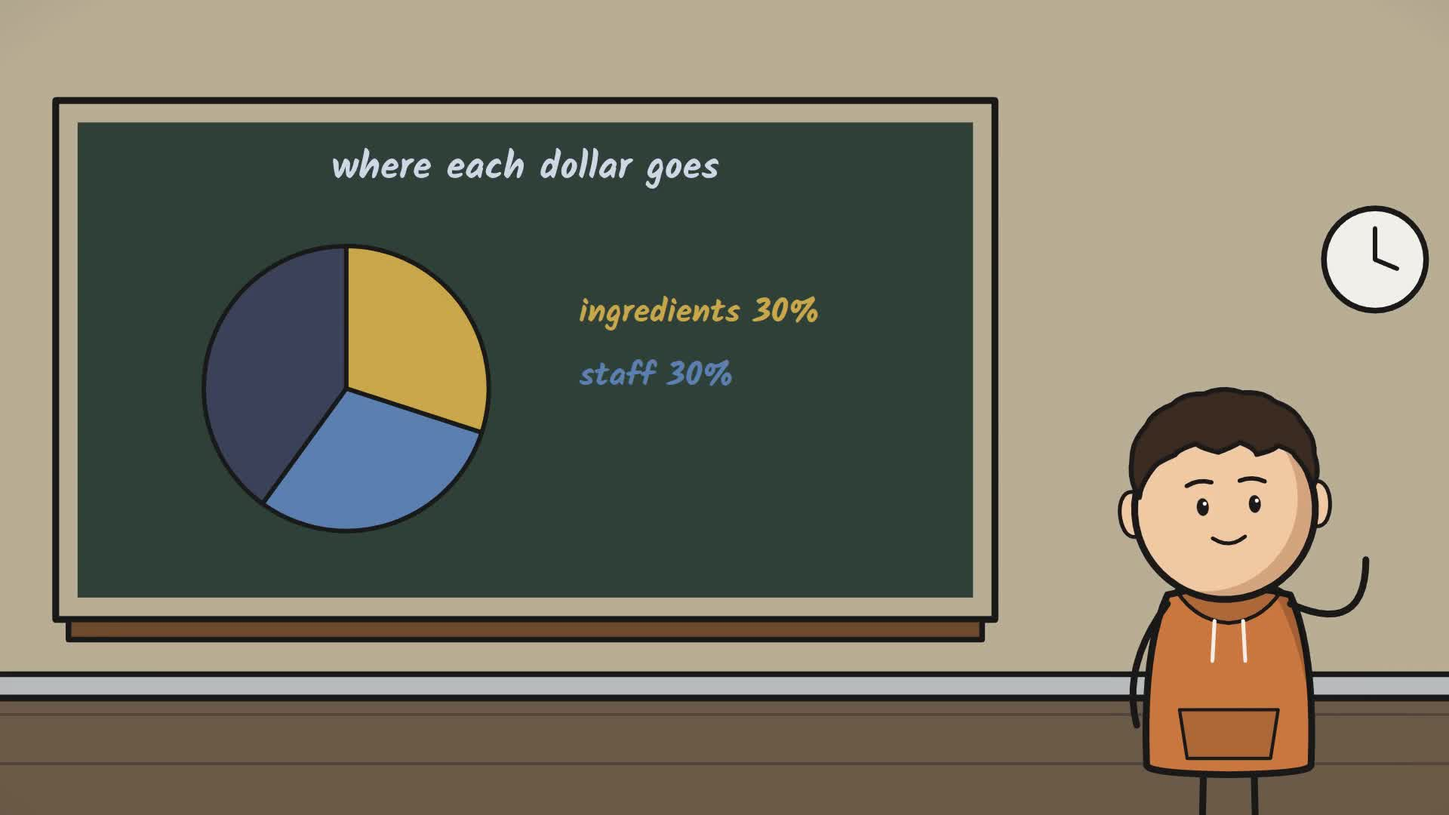
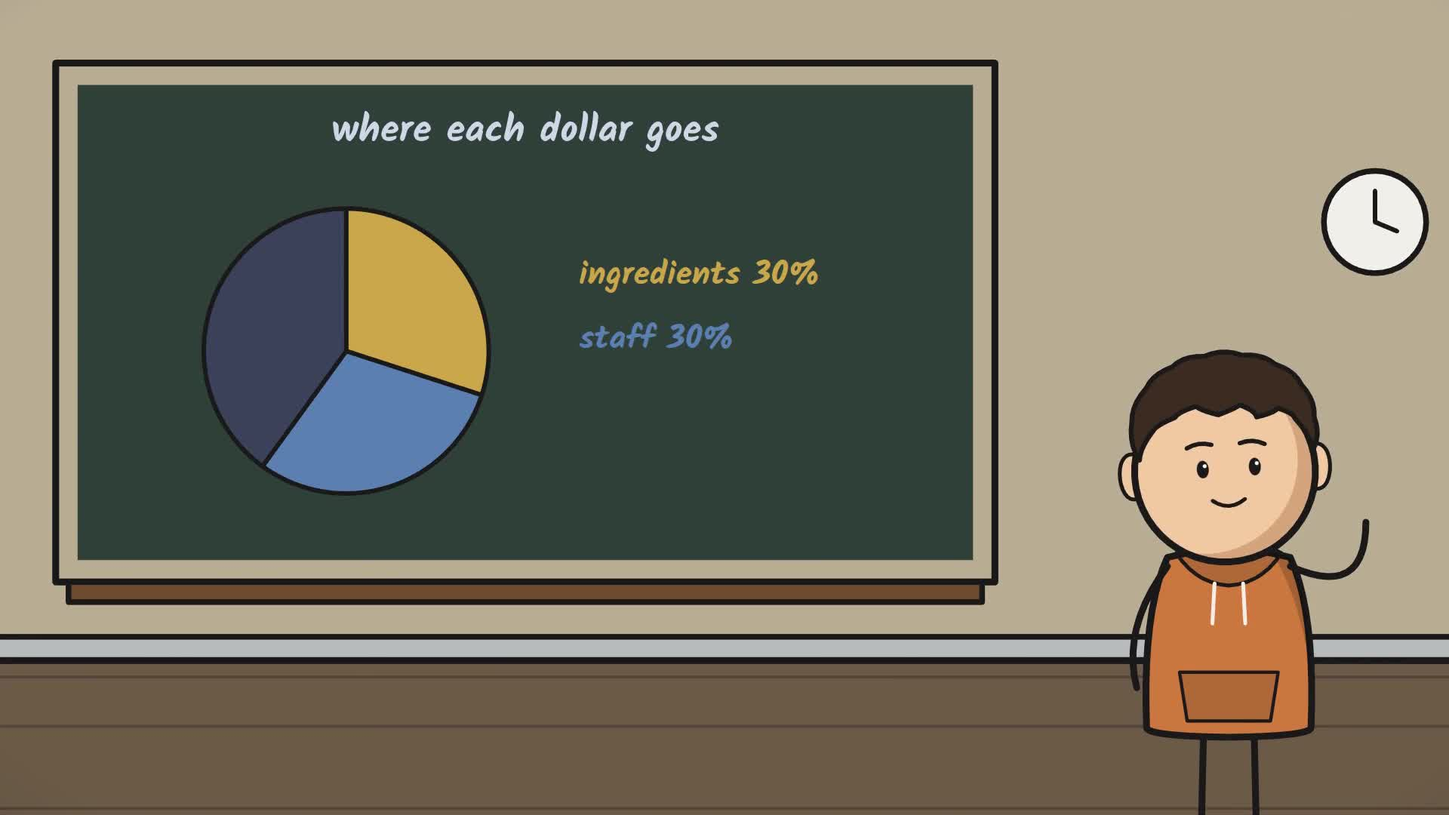
feat(028): polish — CLAUDE.md film flow for the SVG kit and the people library, catalogue entry; camera re-measured after the demo: full-set shots drift inside the drawn margin, board shots creep and drift down, end hold 25%; test reel and demo film both inside the reference motion ranges (still_rat
Five suites: run 87/87, render ok, ui 49+33, learn 95, filmcheck 224+23 with one timing test (test_focus speed) failing only under a load average of 25 from another session; focus.py is untouched by this branch.

diff --git a/my-styles/sketch-explainer/demo/index.html b/my-styles/sketch-explainer/demo/index.html
@@ -4,7 +4,7 @@
 <script type="module">
 // Demo film of the Sketch Explainer style (specs/028 US5). Built by build.py: only the scene table lives here.
 import { film } from './kit/film.js';
-const SCENES = [{"id": "S001", "dur": 2.31, "set": "custom:cafe", "cam": {"size": "med"}, "cast": [{"who": "extra:3", "x": 760, "pose": "hold", "expr": "happy"}, {"who": "worker", "x": 1180, "pose": "palm", "expr": "happy"}], "sign": {"who": 0, "text": "$5", "sub": "a latte"}, "cap": ["a latte", "", 1500, 160]}, {"id": "S002", "dur": 4.207, "set": "whiteboard-room", "cam": {"size": "med"}, "cast": [{"who": "narrator", "x": 1520, "pose": "pointL", "expr": "happy"}], "board": {"k": "list", "title": "the cup", "rows": ["coffee", "milk", "cup", "≈ $1.20"], "hi": 3, "step": 0.45}}, {"id": "S003", "dur": 4.165, "set": "custom:cafe", "cam": {"size": "cu", "on": 0}, "cast": [{"who": "narrator", "x": 820, "pose": "shrug", "expr": "shocked"}, {"who": "worker", "x": 1260, "expr": "smug"}], "bub": [[0, "$4?!", 0.3], [1, "Nope.", 1.9]]}, {"id": "S004", "dur": 1.859, "set": "street-day", "cam": {"size": "huge"}, "cast": [{"who": "narrator", "x": 1500, "s": 0.3, "pose": "palm", "expr": "happy"}, {"who": "extra:5", "x": 620, "s": 0.3, "walk": [380, 760, 0.2, 1.6]}]}, {"id": "S005", "dur": 4.304, "set": "living-room", "cam": {"size": "wide"}, "cast": [{"who": "narrator", "x": 960, "pose": "hold", "expr": "excited"}], "sign": {"who": 0, "text": "$30,000", "sub": "sales a month", "w": 420}}, {"id": "S006", "dur": 3.062, "set": "chalk-room", "cam": {"size": "med"}, "cast": [{"who": "narrator", "x": 1500, "pose": "pointL", "expr": "neutral"}], "board": {"k": "pie", "title": "where each dollar goes", "sl": [["ingredients 30%", 30, "gold"], ["staff 30%", 30, "blue"]], "at": 0.2}}, {"id": "S007", "dur": 4.538, "set": "chalk-room", "cam": {"size": "insert"}, "board": {"k": "pie", "title": "where each dollar goes", "sl": [["ingredients 30%", 30, "gold"], ["staff 30%", 30, "blue"], ["rent 12%", 12, "grey"]], "at": -2}}, {"id": "S008", "dur": 3.971, "set": "office", "cam": {"size": "med"}, "cast": [{"who": "auditor", "x": 960, "seat": true, "s": 0.8, "expr": "deadpan"}], "lab": [["power, ads, more", "", 1500, 200, 1150, 380, 0.3]]}, {"id": "S009", "dur": 4.272, "set": "tv-room", "cam": {"size": "med"}, "cast": [{"who": "narrator", "x": 1500, "pose": "pointL", "expr": "excited", "hop": 1.2}], "board": {"k": "num", "text": "~19%", "sub": "left over, a well-run café", "col": "growth", "size": 150}}, {"id": "S010", "dur": 4.119, "set": "ots-office", "cam": {"size": "ots"}, "cast": [{"who": "narrator", "x": 1000, "pose": "hold", "expr": "happy"}], "sign": {"who": 0, "text": "~95¢", "sub": "per $5 latte", "col": "growth"}}, {"id": "S011", "dur": 2.925, "set": "meeting", "cam": {"size": "wide"}, "cast": [{"who": "extra:1", "x": 420}, {"who": "banker", "x": 760, "expr": "calm"}, {"who": "extra:6", "x": 1100}, {"who": "narrator", "x": 1460, "pose": "palm"}], "lab": [["aim: 10–15%", "", 960, 160, 760, 420, 0.3]]}, {"id": "S012", "dur": 3.99, "set": "custom:cafe", "cam": {"size": "huge"}, "cast": [{"who": "worker", "x": 1000, "pose": "palm", "expr": "happy"}, {"who": "extra:0", "x": 0, "walk": [1900, 1260, 0.2, 2.8]}, {"who": "extra:1", "x": 0, "walk": [1740, 1410, 0.5, 3.0999999999999996]}, {"who": "extra:2", "x": 0, "walk": [1580, 1560, 0.8, 3.4]}, {"who": "extra:3", "x": 0, "walk": [1420, 1710, 1.0999999999999999, 3.6999999999999997]}], "props": [["coinstack", 1000, 860, 0.9, 12]]}, {"id": "S013", "dur": 5.22, "set": "sunset-city", "cam": {"size": "wide"}, "cast": [{"who": "narrator", "x": 760, "pose": "hold", "expr": "beam"}, {"who": "worker", "x": 1160, "pose": "up", "expr": "excited"}], "sign": {"who": 0, "text": "200 a day", "sub": "the café's example", "w": 420}}];
+const SCENES = [{"id": "S001", "dur": 2.31, "set": "custom:cafe", "cam": {"size": "med"}, "cast": [{"who": "extra:3", "x": 760, "pose": "hold", "expr": "happy"}, {"who": "worker", "x": 1180, "pose": "palm", "expr": "happy"}], "sign": {"who": 0, "text": "$5", "sub": "a latte"}, "cap": ["a latte", "", 1500, 160]}, {"id": "S002", "dur": 4.207, "set": "whiteboard-room", "cam": {"size": "med"}, "cast": [{"who": "narrator", "x": 1520, "pose": "pointL", "expr": "happy"}], "board": {"k": "list", "title": "the cup", "rows": ["coffee", "milk", "cup", "≈ $1.20"], "hi": 3, "step": 0.45}}, {"id": "S003", "dur": 4.165, "set": "custom:cafe", "cam": {"size": "cu", "on": 0}, "cast": [{"who": "narrator", "x": 820, "pose": "shrug", "expr": "shocked"}, {"who": "worker", "x": 1260, "expr": "smug"}], "bub": [[0, "$4?!", 0.3], [1, "Nope.", 1.9]]}, {"id": "S004", "dur": 1.859, "set": "street-day", "cam": {"size": "huge"}, "cast": [{"who": "narrator", "x": 1500, "s": 0.3, "pose": "palm", "expr": "happy"}, {"who": "extra:5", "x": 620, "s": 0.3, "walk": [380, 760, 0.2, 1.6]}]}, {"id": "S005", "dur": 4.304, "set": "living-room", "cam": {"size": "wide"}, "cast": [{"who": "narrator", "x": 960, "pose": "hold", "expr": "excited"}], "sign": {"who": 0, "text": "$30,000", "sub": "sales a month", "w": 420}}, {"id": "S006", "dur": 3.062, "set": "chalk-room", "cam": {"size": "med"}, "cast": [{"who": "narrator", "x": 1500, "pose": "pointL", "expr": "neutral"}], "board": {"k": "pie", "title": "where each dollar goes", "sl": [["ingredients 30%", 30, "gold"], ["staff 30%", 30, "blue"]], "at": 0.2}}, {"id": "S007", "dur": 4.538, "set": "tv-room", "cam": {"size": "med"}, "cast": [{"who": "narrator", "x": 1500, "pose": "pointL", "expr": "worried"}], "board": {"k": "pie", "title": "where each dollar goes", "sl": [["ingredients 30%", 30, "gold"], ["staff 30%", 30, "blue"], ["rent 12%", 12, "grey"]], "at": -0.9}}, {"id": "S008", "dur": 3.971, "set": "office", "cam": {"size": "med", "move": "still"}, "cast": [{"who": "auditor", "x": 960, "seat": true, "s": 0.8, "expr": "deadpan"}], "lab": [["power, ads, more", "", 1500, 200, 1150, 380, 0.3]]}, {"id": "S009", "dur": 4.272, "set": "tv-room", "cam": {"size": "med"}, "cast": [{"who": "narrator", "x": 1500, "pose": "pointL", "expr": "excited", "hop": 1.2}], "board": {"k": "num", "text": "~19%", "sub": "left over, a well-run café", "col": "growth", "size": 150}}, {"id": "S010", "dur": 4.119, "set": "ots-office", "cam": {"size": "ots"}, "cast": [{"who": "narrator", "x": 1000, "pose": "hold", "expr": "happy"}], "sign": {"who": 0, "text": "~95¢", "sub": "per $5 latte", "col": "growth"}}, {"id": "S011", "dur": 2.925, "set": "meeting", "cam": {"size": "wide", "move": "still"}, "cast": [{"who": "extra:1", "x": 420}, {"who": "banker", "x": 760, "expr": "calm"}, {"who": "extra:6", "x": 1100}, {"who": "narrator", "x": 1460, "pose": "palm"}], "lab": [["aim: 10–15%", "", 960, 160, 760, 420, 0.3]]}, {"id": "S012", "dur": 3.99, "set": "custom:cafe", "cam": {"size": "huge"}, "cast": [{"who": "worker", "x": 1000, "pose": "palm", "expr": "happy"}, {"who": "extra:0", "x": 0, "walk": [1900, 1260, 0.2, 2.8]}, {"who": "extra:1", "x": 0, "walk": [1740, 1410, 0.5, 3.0999999999999996]}, {"who": "extra:2", "x": 0, "walk": [1580, 1560, 0.8, 3.4]}, {"who": "extra:3", "x": 0, "walk": [1420, 1710, 1.0999999999999999, 3.6999999999999997]}], "props": [["coinstack", 1000, 860, 0.9, 12]]}, {"id": "S013", "dur": 5.22, "set": "sunset-city", "cam": {"size": "wide"}, "cast": [{"who": "narrator", "x": 760, "pose": "hold", "expr": "beam"}, {"who": "worker", "x": 1160, "pose": "up", "expr": "excited"}], "sign": {"who": 0, "text": "200 a day", "sub": "the café's example", "w": 420}}];
 await film({ scenes: SCENES, custom: {"cafe": {"parts": [["sky", {}], ["skyline", {"y": 640, "col": "#a9c7d1", "seed": 2}], ["ground", {"y": 660}], ["stall", {"x": 980, "y": 560}]], "floor": 1000}} });
 </script>
 </body></html>

diff --git a/my-styles/sketch-explainer/kit/camera.js b/my-styles/sketch-explainer/kit/camera.js
@@ -6,7 +6,7 @@
 // The proof frame passed with a linear move, a small drift and a hold at the end of the shot; on a whole film the
 // hold is 20% so that locked shots plus holds stay inside the measured still_ratio (0.10–0.44).
 
-export const DEFAULTS = { push: 3.3, pull: 8.6, pullCap: 0.3, hold: 0.2, drift: 60, follow: 110, mix: { push: 0.33, pull: 0.23, still: 0.22, follow: 0.2, drift: 0.02 } };
+export const DEFAULTS = { push: 3.3, pull: 8.6, pullCap: 0.3, hold: 0.25, drift: 60, follow: 110, mix: { push: 0.33, pull: 0.23, still: 0.22, follow: 0.2, drift: 0.02 } };
 export const SIZES = ['ecu', 'cu', 'med', 'wide', 'huge', 'insert', 'ots'];
 export const MOVES = ['push', 'pull', 'still', 'follow', 'drift'];
 /** share of the frame height a head fills, by shot size (head diameter = 330 × s world units) */
@@ -60,14 +60,21 @@ export function camFor(scene, prevMove, focus, board) {
   else if (move === 'pull') { z0 = z * (1 + Math.min(DEFAULTS.pullCap, DEFAULTS.pull / 100 * run)); z1 = z; cx1 = cx + dir * DEFAULTS.drift * run / z; }
   else if (move === 'follow') { cx1 = cx + dir * DEFAULTS.follow * run / z; }
   else if (move === 'drift') { cx1 = cx + dir * DEFAULTS.drift * 0.6 * run / z; cy1 = cy + DEFAULTS.drift * 0.3 * run / z; }
-  if (board && size !== 'insert') { cx1 = cx; cy1 = cy; z1 = Math.min(z1, z * 1.03); z0 = Math.min(z0, z * 1.03); }   // keep the board's words in frame
+  // a board's words stay in frame: no sideways drift and at most a 3% creep, but a slow vertical drift keeps the frame
+  // alive (the reference moves in 78% of shots)
+  if (board && size !== 'insert') { cx1 = cx; cy1 = cy + 30 * run / z; z1 = Math.min(z1, z * 1.03); z0 = Math.min(z0, z * 1.03); }
+  if (z0 <= 1.01 && z1 <= 1.01 && move !== 'still') {       // the full set: drift inside the drawn margin instead of being clamped
+    cx = 960 - dir * 70; cx1 = 960 + dir * 70; cy = 540; cy1 = 560;
+  }
   return { size, move, cx, cy, z: z0, cx1, cy1, z1, hold };
 }
 
-/** keep the view inside the drawn world (0..1920 × 0..1080) */
+/** keep the view inside the drawn world: sets are drawn 120 px past the frame on every side (sets/index.js), so even
+ * a wide shot at z = 1 has room to drift */
+export const MARGIN = 100;
 export function clampView(/** @type {number} */ cx, /** @type {number} */ cy, /** @type {number} */ z) {
   const hw = 960 / z, hh = 540 / z;
-  return [Math.max(hw, Math.min(1920 - hw, cx)), Math.max(hh, Math.min(1080 - hh, cy))];
+  return [Math.max(hw - MARGIN, Math.min(1920 + MARGIN - hw, cx)), Math.max(hh - MARGIN, Math.min(1080 + MARGIN - hh, cy))];
 }
 
 /** camera at lt seconds into a shot of d seconds: constant speed, then held for the last `hold` share */

diff --git a/my-styles/sketch-explainer/kit/film.js b/my-styles/sketch-explainer/kit/film.js
@@ -128,7 +128,7 @@ export async function film(opts) {
     for (const b of sc.bub || []) { const who = (sc.cast || [])[b[0]] || {}; bubbles.push([+(o.t0 + (b[2] ?? 0.3)).toFixed(3), +o.t1.toFixed(3), id, String(who.who), b[1], String(who.who).startsWith('person:')]); if (!SYMBOLS.test(b[1])) add(b[2] ?? 0.3, b[1]); }
   }
   w.CARDS = cards; w.BUBBLES = bubbles;
-  w.SCENE_INFO = S.map(o => ({ id: o.sc.id, set: o.sc.card ? 'card' : String(o.sc.set), size: o.sc.card ? 'card' : o.cam.size, move: o.sc.card ? 'still' : o.cam.move, dur: o.sc.dur, events: o.sc.card ? 0 : o.events.length }));
+  w.SCENE_INFO = S.map(o => ({ id: o.sc.id, set: o.sc.card ? 'card' : String(o.sc.set), size: o.sc.card ? 'card' : o.cam.size, move: o.sc.card ? 'still' : o.cam.move, dur: o.sc.dur, events: o.sc.card ? 0 : o.events.length, cam: o.sc.card ? null : o.cam }));
 
   // DOM
   document.body.style.margin = '0'; document.body.style.background = '#000'; document.body.style.overflow = 'hidden';

diff --git a/my-styles/sketch-explainer/demo/build.py b/my-styles/sketch-explainer/demo/build.py
@@ -60,15 +60,15 @@ TABLE = [
          sign={"who": 0, "text": "$30,000", "sub": "sales a month", "w": 420}),
     dict(set="chalk-room", cam={"size": "med"}, cast=[{"who": "narrator", "x": 1500, "pose": "pointL", "expr": "neutral"}],
          board={"k": "pie", "title": "where each dollar goes", "sl": [["ingredients 30%", 30, GOLD], ["staff 30%", 30, B]], "at": 0.2}),
-    dict(set="chalk-room", cam={"size": "insert"},
-         board={"k": "pie", "title": "where each dollar goes", "sl": [["ingredients 30%", 30, GOLD], ["staff 30%", 30, B], ["rent 12%", 12, GREY]], "at": -2}),
-    dict(set="office", cam={"size": "med"}, cast=[{"who": "auditor", "x": 960, "seat": True, "s": 0.8, "expr": "deadpan"}],
+    dict(set="tv-room", cam={"size": "med"}, cast=[{"who": "narrator", "x": 1500, "pose": "pointL", "expr": "worried"}],
+         board={"k": "pie", "title": "where each dollar goes", "sl": [["ingredients 30%", 30, GOLD], ["staff 30%", 30, B], ["rent 12%", 12, GREY]], "at": -0.9}),
+    dict(set="office", cam={"size": "med", "move": "still"}, cast=[{"who": "auditor", "x": 960, "seat": True, "s": 0.8, "expr": "deadpan"}],
          lab=[["power, ads, more", "", 1500, 200, 1150, 380, 0.3]]),
     dict(set="tv-room", cam={"size": "med"}, cast=[{"who": "narrator", "x": 1500, "pose": "pointL", "expr": "excited", "hop": 1.2}],
          board={"k": "num", "text": "~19%", "sub": "left over, a well-run café", "col": G, "size": 150}),
     dict(set="ots-office", cam={"size": "ots"}, cast=[{"who": "narrator", "x": 1000, "pose": "hold", "expr": "happy"}],
          sign={"who": 0, "text": "~95¢", "sub": "per $5 latte", "col": G}),
-    dict(set="meeting", cam={"size": "wide"}, cast=[{"who": "extra:1", "x": 420}, {"who": "banker", "x": 760, "expr": "calm"}, {"who": "extra:6", "x": 1100}, {"who": "narrator", "x": 1460, "pose": "palm"}],
+    dict(set="meeting", cam={"size": "wide", "move": "still"}, cast=[{"who": "extra:1", "x": 420}, {"who": "banker", "x": 760, "expr": "calm"}, {"who": "extra:6", "x": 1100}, {"who": "narrator", "x": 1460, "pose": "palm"}],
          lab=[["aim: 10–15%", "", 960, 160, 760, 420, 0.3]]),
     dict(set="custom:cafe", cam={"size": "huge"}, cast=[{"who": "worker", "x": 1000, "pose": "palm", "expr": "happy"}] +
          [{"who": f"extra:{i}", "x": 0, "walk": [1900 - i * 160, 1260 + i * 150, 0.2 + i * 0.3, 2.8 + i * 0.3]} for i in range(4)],

diff --git a/CLAUDE.md b/CLAUDE.md
@@ -58,6 +58,8 @@ Mỗi yêu cầu đi đúng **một** luồng:
    - Thư mục phim = `films/<tên>/` của dự án (chữ thường, số, gạch nối). Nội dung `films/` không vào git.
    - Phong cách riêng: đọc danh mục `my-styles/README.md` và lưu vào `my-styles/<slug>/`, **thay cho** `~/lemo-my-styles/`. Với phong cách riêng, đọc `DEMO.md` và `demo/` của nó (nếu có) trước phong cách gốc; nếu có `shots.json` thì lập bảng cảnh theo các tỉ lệ cỡ cảnh, góc máy, đổi cỡ giữa hai cảnh liền nhau và giữ chủ thể nét (specs/021).
    - **Bộ dựng** (specs/022): phong cách có `kit/` (vd. `dusk-hypothetical`) thì ngay sau `channel attach` chạy `sh bin/studio kit use <tên>` (chép bộ dựng vào `films/<tên>/kit/`; trang phim không với tới `my-styles/`). Đọc `kit/catalog.json` và `specs/022-style-film-kit/contracts/kit-api.md`; trang phim chỉ viết bảng cảnh `SCENES` rồi gọi `film({scenes})`, không viết lại nhân vật, ánh sáng, hậu kỳ hay đồ hoạ. Mỗi cảnh ghi bối cảnh, cách đặt máy, tư thế, biểu cảm, đồ hoạ theo tên trong danh mục; bối cảnh không có thì dựng `custom:<tên>` từ `kit/sets/parts.js` và ghi rõ trong bảng cảnh. Nhân vật chính lấy từ `hero` của kênh. Kịch bản theo `STRUCTURE.md` của phong cách (phim 4–7 phút dùng tỉ lệ "Compressed").
+   - **Bộ dựng SVG** (specs/028), phong cách `sketch-explainer`: `sh bin/studio kit use <tên> --style sketch-explainer`, đọc `kit/catalog.json` và `specs/028-sketch-kit/contracts/kit-api.md`; trang phim chỉ viết bảng cảnh `SCENES` rồi gọi `film({scenes})` (bối cảnh, người, bảng, biển, bong bóng theo tên trong danh mục; `custom:<tên>` ghép từ phần). Trung cảnh khoảng nửa số cảnh (`suggestSizes` trong `kit/camera.js`). Bộ dựng tự lo máy (đẩy, kéo thẳng, giữ cuối) và hành động mỗi 2–3 giây. Mẫu: `my-styles/sketch-explainer/DEMO.md` và `demo/`.
+   - **Người thật** (specs/028): chỉ lấy từ thư viện `people/` của xưởng. `sh bin/studio people list`; người chưa có thì `people new <slug> --name "…" [--ref-url … --license … --author …]`, vẽ `people/<slug>/figure.js`, `people sheet <slug>`, gửi bảng mẫu cho người dùng và chờ duyệt; chỉ khi người dùng duyệt mới chạy `people approve <slug> --source chat`. Rồi `people use <tên phim> <slug…>` trước khi viết bảng cảnh. Người thật không nói lời bịa: bong bóng chỉ có ký hiệu (`!`, `?`, `$`) hoặc trích nguyên văn có trong `SOURCES.md` (tầng 1 chặn `person_words`, `person_unapproved`).
    - **Template tay nghề** (specs/023): phong cách có `TEMPLATE.md` thì đọc nó trước khi lập bảng cảnh (mặt, bố cục, độ sâu, ánh sáng, đạo cụ, thẻ, diễn xuất, máy, chuyển cảnh, âm thanh, nhịp đọc, công thức từng nhịp). Bảng cảnh dùng các trường của `specs/023-style-craft-template/contracts/kit-api-v2.md`: mỗi người trong cảnh có `act` (≥ 1 động tác, cảnh dài thì 2–3), `talk` theo bong bóng, `path` khi đi; `move: 'auto'` (mặc định) theo tỉ lệ máy của kênh mẫu; `trans` `dip`/`fade` (mờ dần ≤ 2); thẻ số liệu có `icon`; thẻ cuối có `cast` (nhân vật 3D). Xếp mốc lời bằng `kit/sound/timing.py`, viết `beats.json` theo nhịp của `STRUCTURE.md`, trộn tiếng bằng `cd $LIB && .venv/bin/python films/<tên>/kit/sound/mix.py films/<tên>` (nhạc tự soạn bằng nhạc cụ của thư viện; cần `sh bin/studio deps music`; ghi dòng Salamander vào `films/<tên>/CREDITS`). Ảnh hay đoạn ngắn của trang phim: `sh bin/studio page clip <tên> --from S --to S`.
    - Cài gói của thư viện bằng `sh bin/studio deps [voice] [music]`, **không** chạy thẳng `setup.sh` của thư viện (nó sẽ tải một bản thư viện khác vào `~/lemo-opuscar`).
    - **Dựng hình** (specs/019): ghi video bằng `sh bin/studio render <tên> --fps <rate của phong cách>` (bọc trong `job run … --step "Render"`), **không** gọi thẳng `video.mjs`; lệnh chỉ chạy khi các tầng kiểm ở bước 3b đã đạt; ảnh tĩnh, xuất sự kiện, kiểm thời gian đọc chữ bằng `sh bin/studio page still|events|readcheck <tên> …`. Xưởng tự dùng GPU nếu máy được (`sh bin/studio status` có dòng `dựng hình`), chia phim thành đoạn 10 giây, bị ngắt thì chạy lại để làm tiếp. Trên Linux/WSL2 có GPU, Chrome mở một cửa sổ ngoài màn hình: đừng tắt nó. Thiếu Chromium đầy đủ: `sh bin/studio deps gpu`; tắt GPU: `sh bin/studio config render software`.
@@ -144,14 +146,14 @@ Mẹo chung để tiết kiệm token:
 Lệnh phụ: `/speckit-checklist <lĩnh vực>` tạo checklist kiểm tra chất lượng spec (UX, bảo mật…). `/speckit-constitution` dùng để sửa hiến pháp.
 
 ## Cấu trúc
-- `bin/studio`: `setup` · `status [--json]` · `kit use <phim> [--style S] [--update]` · `render <phim> [--skip-checks R] [--no-stop] [--fresh]` · `voice asr|make <phim>` · `qc voice|plan|shots|final <phim>` · `qc except|accept-style <phim> …` · `page still|events|readcheck|clip <phim>` · `deps gpu` · `config render auto|software` · `deps [voice] [music]` · `deps learn [--extra]` · `learn <lệnh>` · `deps ui` · `ui [open|status|stop]` · `job …` · `review …` · `deps online` · `admin create <email>` · `online up|down|logs|admin <email>` · `script check|review|status|skip <phim>` · `web fetch <url>` · `app start|status|stop|import` · `qc <phim>` · `publish <phim>` · `channel …` · `lesson …` · `topics …` · `config youtube-key` · `config model [<id>]` (một model Claude cho mọi lượt gọi, danh sách ở `tools/models.json`, specs/024); test: `sh tests/run.sh`, `sh tests/render/run.sh`, `sh tests/learn/run.sh`, `sh tests/ui/run.sh`, `sh tests/filmcheck/run.sh`, `sh tests/online/run.sh`, `sh tests/license/run.sh` (bài chạy thật, tốn tiền: `sh tests/online/live.sh`)
+- `bin/studio`: `setup` · `status [--json]` · `kit use <phim> [--style S] [--update]` · `people list|new|sheet|approve|use|check` · `render <phim> [--skip-checks R] [--no-stop] [--fresh]` · `voice asr|make <phim>` · `qc voice|plan|shots|final <phim>` · `qc except|accept-style <phim> …` · `page still|events|readcheck|clip <phim>` · `deps gpu` · `config render auto|software` · `deps [voice] [music]` · `deps learn [--extra]` · `learn <lệnh>` · `deps ui` · `ui [open|status|stop]` · `job …` · `review …` · `deps online` · `admin create <email>` · `online up|down|logs|admin <email>` · `script check|review|status|skip <phim>` · `web fetch <url>` · `app start|status|stop|import` · `qc <phim>` · `publish <phim>` · `channel …` · `lesson …` · `topics …` · `config youtube-key` · `config model [<id>]` (một model Claude cho mọi lượt gọi, danh sách ở `tools/models.json`, specs/024); test: `sh tests/run.sh`, `sh tests/render/run.sh`, `sh tests/learn/run.sh`, `sh tests/ui/run.sh`, `sh tests/filmcheck/run.sh`, `sh tests/online/run.sh`, `sh tests/license/run.sh` (bài chạy thật, tốn tiền: `sh tests/online/live.sh`)
 - `tools/studio/`: giao diện web và API v1 (chỉ `127.0.0.1`), sổ việc và yêu cầu duyệt trong `.studio/` (không vào git); trang việc làm phim có khu "Done so far" (specs/025: `GET /api/v1/jobs/<mã>/done` và `/files/<đường dẫn>`, chỉ đọc tệp trong danh sách cho phép của thư mục phim; `job start --film` ghi `film_dir`)
 - Chế độ online (specs/007, specs/008, `STUDIO_MODE=online`): xưởng nội bộ chạy bằng gói Claude Pro/Max của chủ xưởng. Tài khoản, hạn mức, việc và từng lần gọi Claude nằm trong SQLite ở `$STUDIO_DATA`; đăng nhập các tài khoản Claude nằm ở `$STUDIO_DATA/claude/slot-<n>` (quyền 700, không vào git, không vào container). `tools/studio/studio/claude_plan.py`: đăng nhập, làm mới mã, chọn tài khoản. Không có đăng ký công khai: chủ xưởng thêm người trong Settings → Users. `tools/runner/` gồm `worker.py` (hàng đợi, chạy mỗi việc trong một container), `proxy.py` (đổi mã của việc sang tài khoản Claude dùng ít nhất, khoá API chỉ là dự phòng, ghi token) và `agent.py` (Claude Agent SDK trong container). Mã API (specs/009): `tools/studio/studio/tokens.py` (mã, nhật ký, vé dùng một lần, Idempotency-Key); mỗi người tự tạo mã ở Your account, Owner xem và thu hồi ở Settings → API tokens; Settings → Worker xem worker và việc gần nhất. Máy chủ MCP ở `/api/mcp` (`tools/studio/studio/mcp_server.py`, chỉ nhận mã): mỗi công cụ là một lệnh REST với cùng mã. `deploy/` chứa Dockerfile, `compose.yaml`, Caddyfile và hướng dẫn `deploy/README.md`
 - `tools/filmcheck/` (specs/010, 011): gói đăng (`publish.py`, thumbnail vẽ từ trang của phim bằng `thumbs.mjs`), kênh và bài học (`channels.py`, specs/012), chọn đề (`topics.py`, `topics_fit.py`, specs/013), máy chấm kịch bản (`script.py`), biên tập độc lập (`editor.py`, một `claude -p` riêng), mở trang an toàn (`webfetch.py`, online đi qua bộ chuyển tiếp), đo phim (`qc.py`), kiểm theo tầng (specs/020: luật nhịp chung `rhythm.py`, `voicecheck.py`, `plancheck.py` + `plan.mjs`, `shotcheck.py` + `shots.mjs`, số đo phong cách `stylerefs.py`, kết quả tầng, ngoại lệ và cổng render `tiers.py`), kết quả `checks.json` và `CHECKS.md` trong thư mục phim (`report.py`). Chỉ cần Python 3
 - `tools/render/` (specs/019): `probe.mjs` (GPU hay phần mềm), `record.mjs` (ghi video theo đoạn, làm tiếp được; tầng 3 của specs/020 qua `chunkcheck.mjs`), `chrome-gpu.sh` (bọc Chromium đầy đủ cho biến `PLAYWRIGHT_CHROME` của thư viện); test: `sh tests/render/run.sh`
 - `tools/style-learn/`: công cụ đo và lưu phong cách (venv riêng `tools/.venv`, không vào git), có `learn shots|label` cho cách quay (specs/021, dùng `tools/filmcheck/focus.py` và `labeler.py`); skill `.claude/skills/style-learn/`
 - `library.lock`: phiên bản thư viện đã ghim; `lib/lemo-opuscar/`: thư viện (không vào git, không sửa)
-- `channels/`: hồ sơ kênh của chính xưởng và bài học (vào git, specs/012) · `my-styles/`: phong cách riêng (vào git) · `films/`: phim (không vào git) · `references/`: video tham chiếu (không vào git) · `tools/`: công cụ tự viết
+- `channels/`: hồ sơ kênh của chính xưởng và bài học (vào git, specs/012) · `people/`: thư viện người thật (hình vẽ và duyệt vào git, ảnh tham chiếu trong `.sheet/` không vào git; `tools/filmcheck/people.py`, specs/028) · `my-styles/`: phong cách riêng (vào git) · `films/`: phim (không vào git) · `references/`: video tham chiếu (không vào git) · `tools/`: công cụ tự viết
 - `desktop/`: app desktop (Electron, specs/015) · `CREDITS`: giấy phép của phần mềm bên thứ ba
 - `.specify/memory/constitution.md`: hiến pháp
 - `.specify/templates/`: mẫu cho spec, plan, tasks, checklist

diff --git a/my-styles/sketch-explainer/DEMO.md b/my-styles/sketch-explainer/DEMO.md
@@ -18,15 +18,15 @@ A latte sells for five dollars and its cup, coffee and milk cost about one dolla
 | S004 | 10.7–12.5 | street-day | very wide | a well-run café in the city; an extra walks in |
 | S005 | 12.5–16.8 | living-room | wide | the guide holds "$30,000 / sales a month" |
 | S006 | 16.8–19.9 | chalk-room | medium | pie builds: ingredients 30%, staff 30% |
-| S007 | 19.9–24.4 | chalk-room | insert | full pie with rent 12% |
-| S008 | 24.4–28.4 | office (seated) | medium | the auditor at her desk; label "power, ads, more" |
+| S007 | 19.9–24.4 | tv-room | medium | the guide, worried, beside the full pie on the wall TV; rent 12% sweeps in |
+| S008 | 24.4–28.4 | office (seated) | medium, locked | the auditor at her desk; label "power, ads, more" |
 | S009 | 28.4–32.7 | tv-room | medium | "~19%" on the wall TV; the guide hops |
 | S010 | 32.7–36.8 | ots-office | over the shoulder | the guide holds "~95¢ per $5 latte" past a dark shoulder |
-| S011 | 36.8–39.7 | meeting | wide | four people at a table; label "aim: 10–15%" |
+| S011 | 36.8–39.7 | meeting | wide, locked | four people at a table; label "aim: 10–15%" |
 | S012 | 39.7–43.7 | custom:cafe | very wide | a queue of extras walks to the stall; coin stack |
 | S013 | 43.7–48.9 | sunset-city | wide | the guide holds "200 a day"; the barista cheers |
 
-Camera moves come from the kit (`kit/camera.js`): push, pull, still or follow by the measured mix, linear, with the last 20% held; board shots only creep (≤ 3%) so the words stay in frame.
+Camera moves come from the kit (`kit/camera.js`): push, pull, still or follow by the measured mix, linear, with the last 25% held; board shots only creep (≤ 3%) and drift down slowly so the words stay in frame; two quiet shots are locked by the scene table. Motion of the finished film against the reference (`learn compare --clip`): still_ratio 0.208 (0.096–0.436), motion720_p50 0.161 (0.107–0.392), moving_share 1.0 (0.932–1).
 
 ## Score structure
 
@@ -43,9 +43,9 @@ None: the film ends on the guide's sign in the sunset street.
 ## Build notes
 
 - `demo/index.html`: the scene table only (13 scenes), made by `demo/build.py` from `lines.json` and the voice durations; `demo/plan.json` carries the line times and shots for `mix.py`.
-- `sh demo/build.sh` (writes to `$OUT`, default `../demo-out`): copies `../kit/` next to the page, makes the voice with Kokoro (`say` replaces a line's text where set), renders with `core/render/video.mjs`, mixes with `mix.py`, muxes at 30 fps. On this machine the GPU render took 57 s.
-- In the studio the film was made with the film flow of `CLAUDE.md`: `script check` 10/10 and `script review` 8.0/10 (round 2, no P1; open P2: three numbers in a row in P06, the volume ending in P07 not fully argued), tier 0 voice, tier 1 plan, tier 2 shots (no frame problem, no shot-grammar warning: medium 50%, wide 33%, very wide 8%, close 8%, over the shoulder 17%), tier 3 per render chunk, tier 4 final. Results: `demo-checks.json`.
-- Pitfalls met while making it: the kit's "palm" pose put the hand across the mouth (moved to shoulder height); a pushing camera with drift pushed a board's words out of frame (board shots now only creep); the whiteboard fill was clipped white (toned down); the labeller read full-figure "medium" shots as wide (medium now cuts at the waist).
+- `sh demo/build.sh` (writes to `$OUT`, default `../demo-out`): copies `../kit/` next to the page, makes the voice with Kokoro (`say` replaces a line's text where set), renders with `core/render/video.mjs`, mixes with `mix.py`, muxes at 30 fps. On this machine the GPU render took 1–4 minutes.
+- In the studio the film was made with the film flow of `CLAUDE.md`: `script check` 10/10 and `script review` 8.0/10 (round 2, no P1; open P2: three numbers in a row in P06, the volume ending in P07 not fully argued), tier 0 voice, tier 1 plan, tier 2 shots (no frame problem, no shot-grammar warning), tier 3 per render chunk, tier 4 final. Results: `demo-checks.json`.
+- Pitfalls met while making it: the kit's "palm" pose put the hand across the mouth (moved to shoulder height); a pushing camera with drift pushed a board's words out of frame (board shots now only creep); the whiteboard fill was clipped white (toned down); the labeller read full-figure "medium" shots as wide (medium now cuts at the waist); a film with no locked shot moved more than the reference (still_ratio 0.04), so quiet shots can be locked with cam.move 'still'.
 
 ## Checks
 

diff --git a/my-styles/sketch-explainer/kit/MEASURE.md b/my-styles/sketch-explainer/kit/MEASURE.md
@@ -6,9 +6,9 @@ Test reel: `kit/examples/try.html`, 15 shots, 56.8 s, rendered on the GPU (Intel
 |---|---|---|---|---|
 | Outline width, people in medium shots | 9 px of 1920 = 0.47% | 0.45–0.6% | `kit/tools/linewidth.py` on 5 frames | ✓ |
 | Saturation, median of frames | 0.205 | 0.118 (0.067–0.317) | numpy on 13 frames | ✓ in range, above the median |
-| still_ratio | 0.429 | 0.096–0.436 | `learn compare sketch-ref --clip` | ✓ |
-| motion720_p50 | 0.151 | 0.107–0.392 | same | ✓ |
-| moving_share | 1.0 | 0.932–1 | same | ✓ |
+| still_ratio | 0.286 (demo film 0.208) | 0.096–0.436 | `learn compare sketch-ref --clip` | ✓ |
+| motion720_p50 | 0.123 (demo film 0.161) | 0.107–0.392 | same | ✓ |
+| moving_share | 1.0 (demo film 1.0) | 0.932–1 | same | ✓ |
 | Medium shots | 48% | 47% (SC-003: 40–55%) | `kit/tools/count.mjs` | ✓ |
 | Longest run of one size | 2 | ≤ 4 | same | ✓ |
 | Size change between shots | 88% | 66% | same | ✓ (more changes than the reference) |
@@ -17,3 +17,5 @@ Test reel: `kit/examples/try.html`, 15 shots, 56.8 s, rendered on the GPU (Intel
 | Render time per frame | 16.5 ms (software, render + paint) | goal < 40 ms | page timing over 100 frames | ✓ |
 
 First round (camera hold 30%, drift 30 px/s, faint idle motion): still_ratio 0.50, motion720_p50 0.026 and moving_share 0.893 were all outside the reference. The hold went to 20%, the drift to 60 px/s, idle head bob and breathing were made larger, and chapter cards creep closer. The second round passed all three.
+
+After the demo film (T042) the kit changed: medium shots cut at the waist, board shots creep and drift down instead of sideways, full-set shots drift inside the 120 px drawn margin instead of being clamped still, and the end hold went to 25%. The test reel and the demo film were rendered again on the GPU and measured with the same tools; the table above holds the new numbers. Outline width stayed at 9 px (0.47%).

diff --git a/specs/028-sketch-kit/tasks.md b/specs/028-sketch-kit/tasks.md
@@ -98,10 +98,10 @@ Nguồn mã khởi đầu (đọc, không sửa): `films/anthropic-ipo-15/{kit.j
 
 ## Phase 9: Polish
 
-- [ ] T039 Ghi luồng dùng bộ dựng SVG và lệnh `people` vào `CLAUDE.md` (mục luồng làm phim, mục Cấu trúc), theo `contracts/people-cli.md`
-- [ ] T040 [P] Cập nhật `my-styles/README.md` (cột bộ dựng của `sketch-explainer`) và `specs/028-sketch-kit/contracts/kit-api.md` nếu tên thay đổi khi làm
-- [ ] T041 Chạy đủ 5 bộ test: `sh tests/run.sh`, `sh tests/render/run.sh`, `sh tests/learn/run.sh`, `sh tests/ui/run.sh`, `sh tests/filmcheck/run.sh` (SC-009)
-- [ ] T042 Chạy `quickstart.md` từ đầu tới cuối và đối chiếu SC-001…SC-010
+- [X] T039 Ghi luồng dùng bộ dựng SVG và lệnh `people` vào `CLAUDE.md` (mục luồng làm phim, mục Cấu trúc), theo `contracts/people-cli.md`
+- [X] T040 [P] Cập nhật `my-styles/README.md` (cột bộ dựng của `sketch-explainer`) và `specs/028-sketch-kit/contracts/kit-api.md` nếu tên thay đổi khi làm
+- [X] T041 Chạy đủ 5 bộ test: `sh tests/run.sh`, `sh tests/render/run.sh`, `sh tests/learn/run.sh`, `sh tests/ui/run.sh`, `sh tests/filmcheck/run.sh` (SC-009)
+- [X] T042 Chạy `quickstart.md` từ đầu tới cuối và đối chiếu SC-001…SC-010
 
 ## Dependencies & Execution Order
 

diff --git a/my-styles/README.md b/my-styles/README.md
@@ -8,4 +8,4 @@ Phong cách ở đây được đưa vào git và đi cùng repo. Khi người d
 |---|---|---|---|---|
 | toi-tram | Quiet Night | scifi-toon | learned (5 video) | 2026-11-06 |
 | dusk-hypothetical | Dusk Hypothetical | brick-toy | learned (10 video nhiều view nhất, trọn phim; học lại 2026-11-13), phim mẫu cũ (`demo/`, 23,6 s, làm trước khi học lại) | 2026-11-12 |
-| sketch-explainer | Sketch Explainer | halftone-dossier | learned (12 video) | 2026-11-19 |
+| sketch-explainer | Sketch Explainer | halftone-dossier | learned (12 video); bộ dựng SVG `kit/` (specs/028), phim mẫu `demo/` (48,9 s) | 2026-11-19 |
